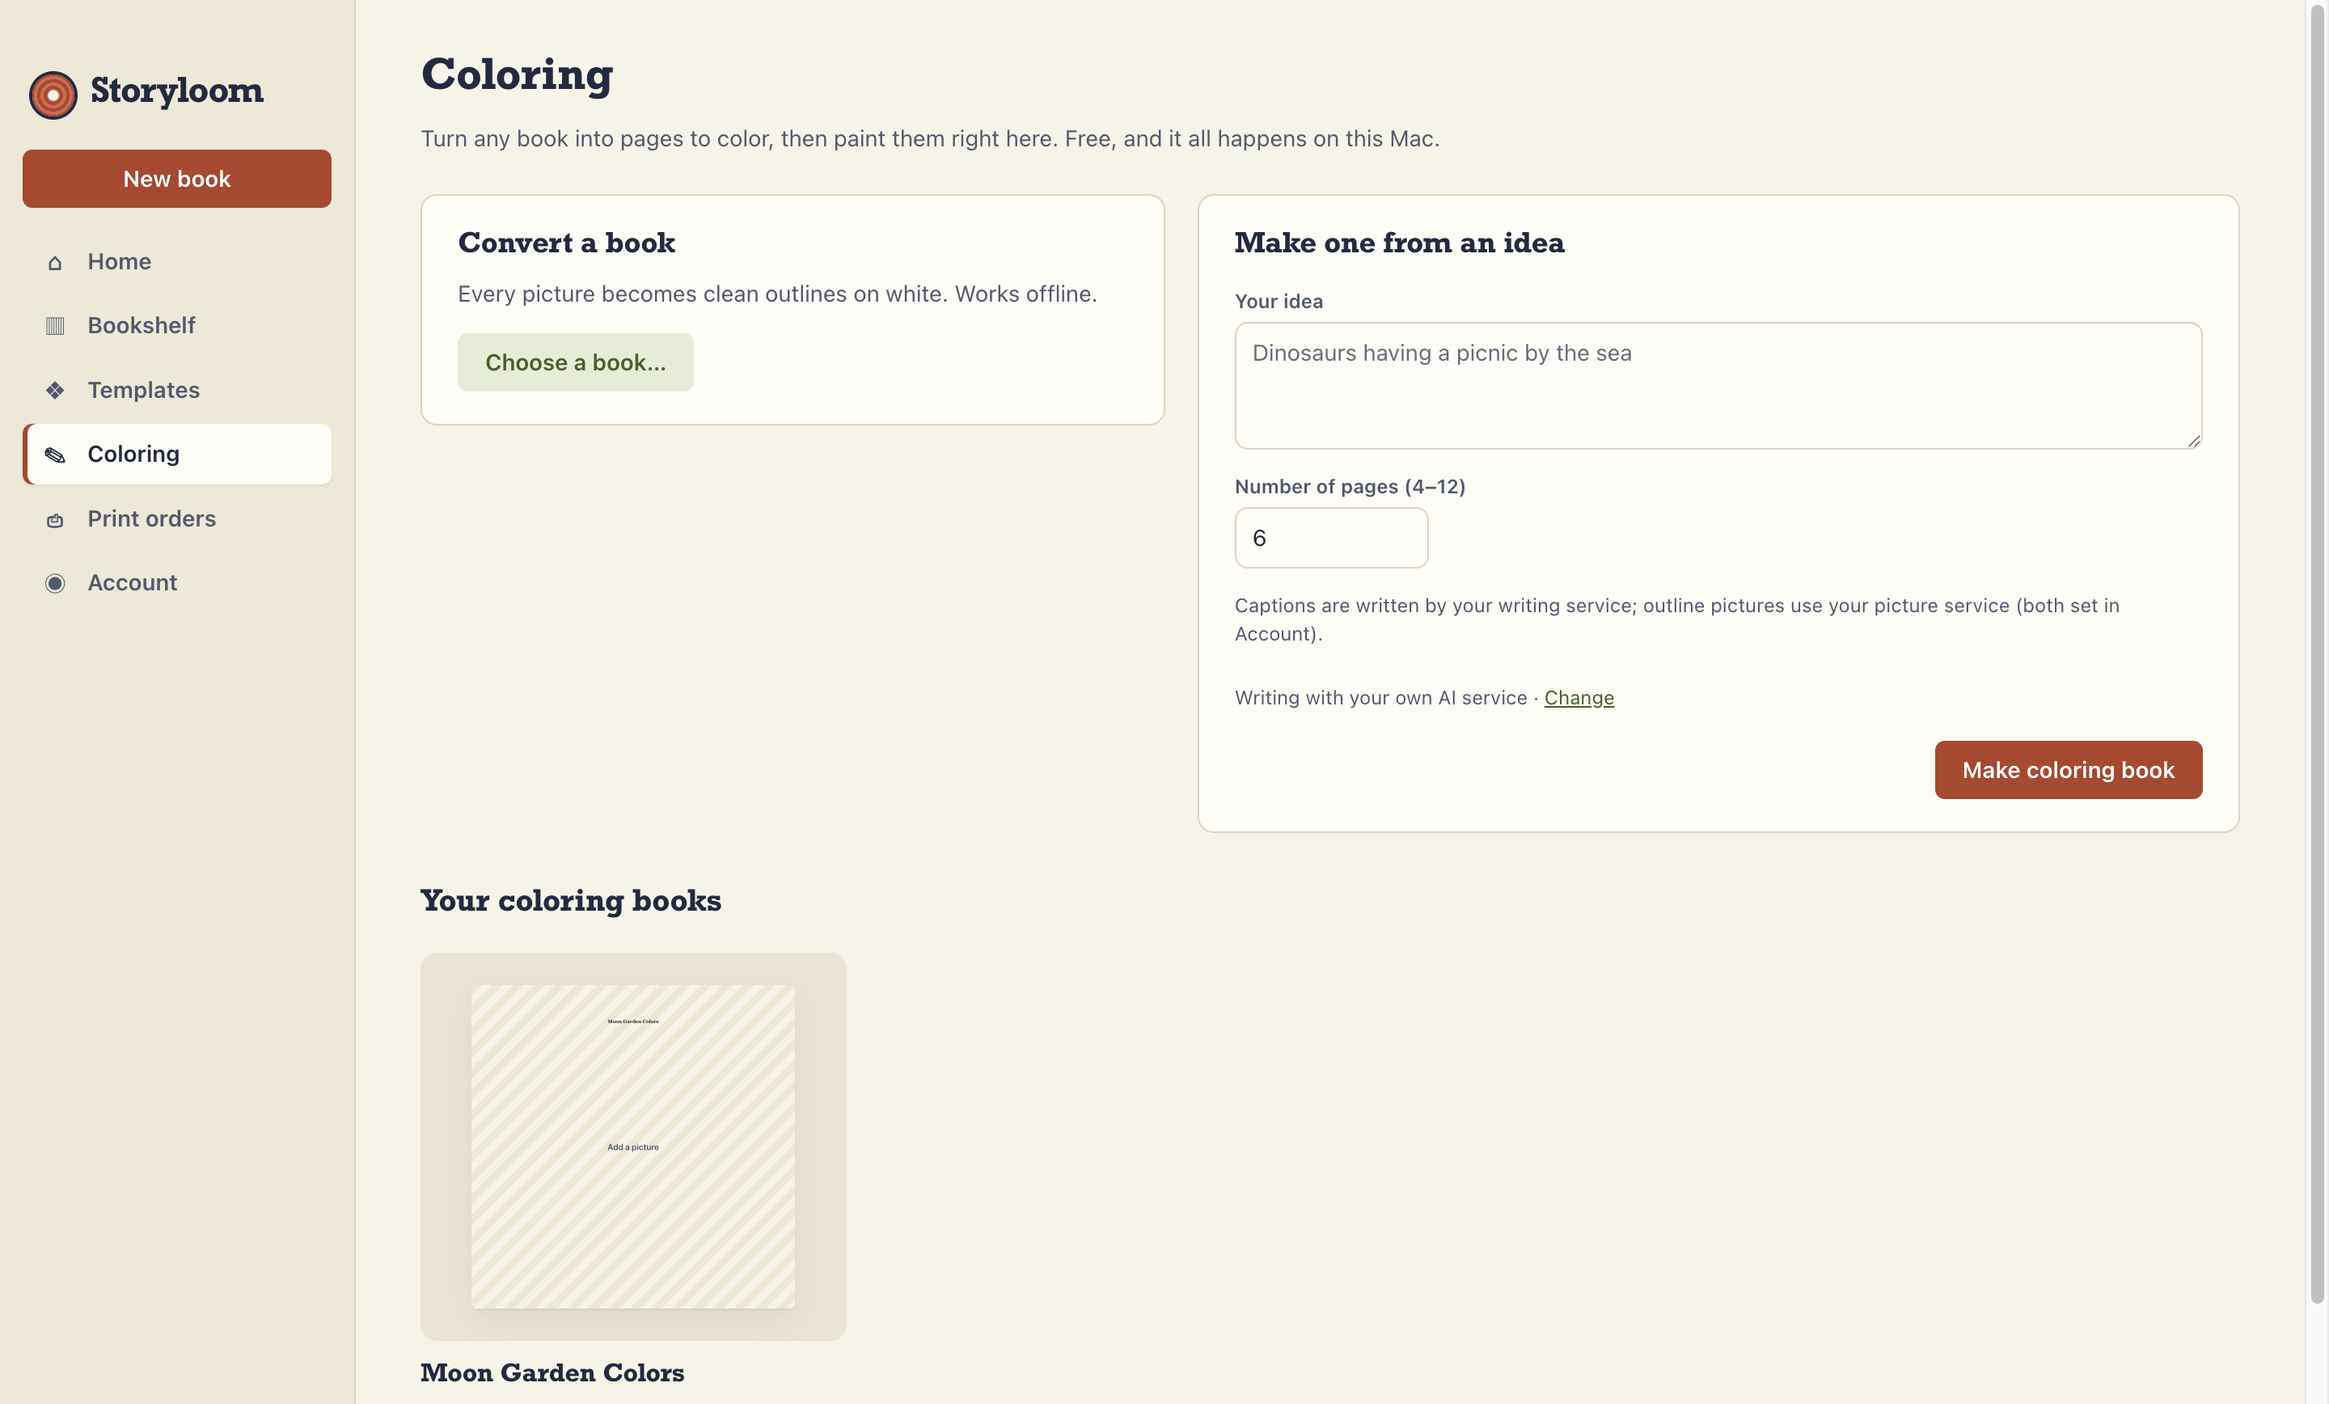
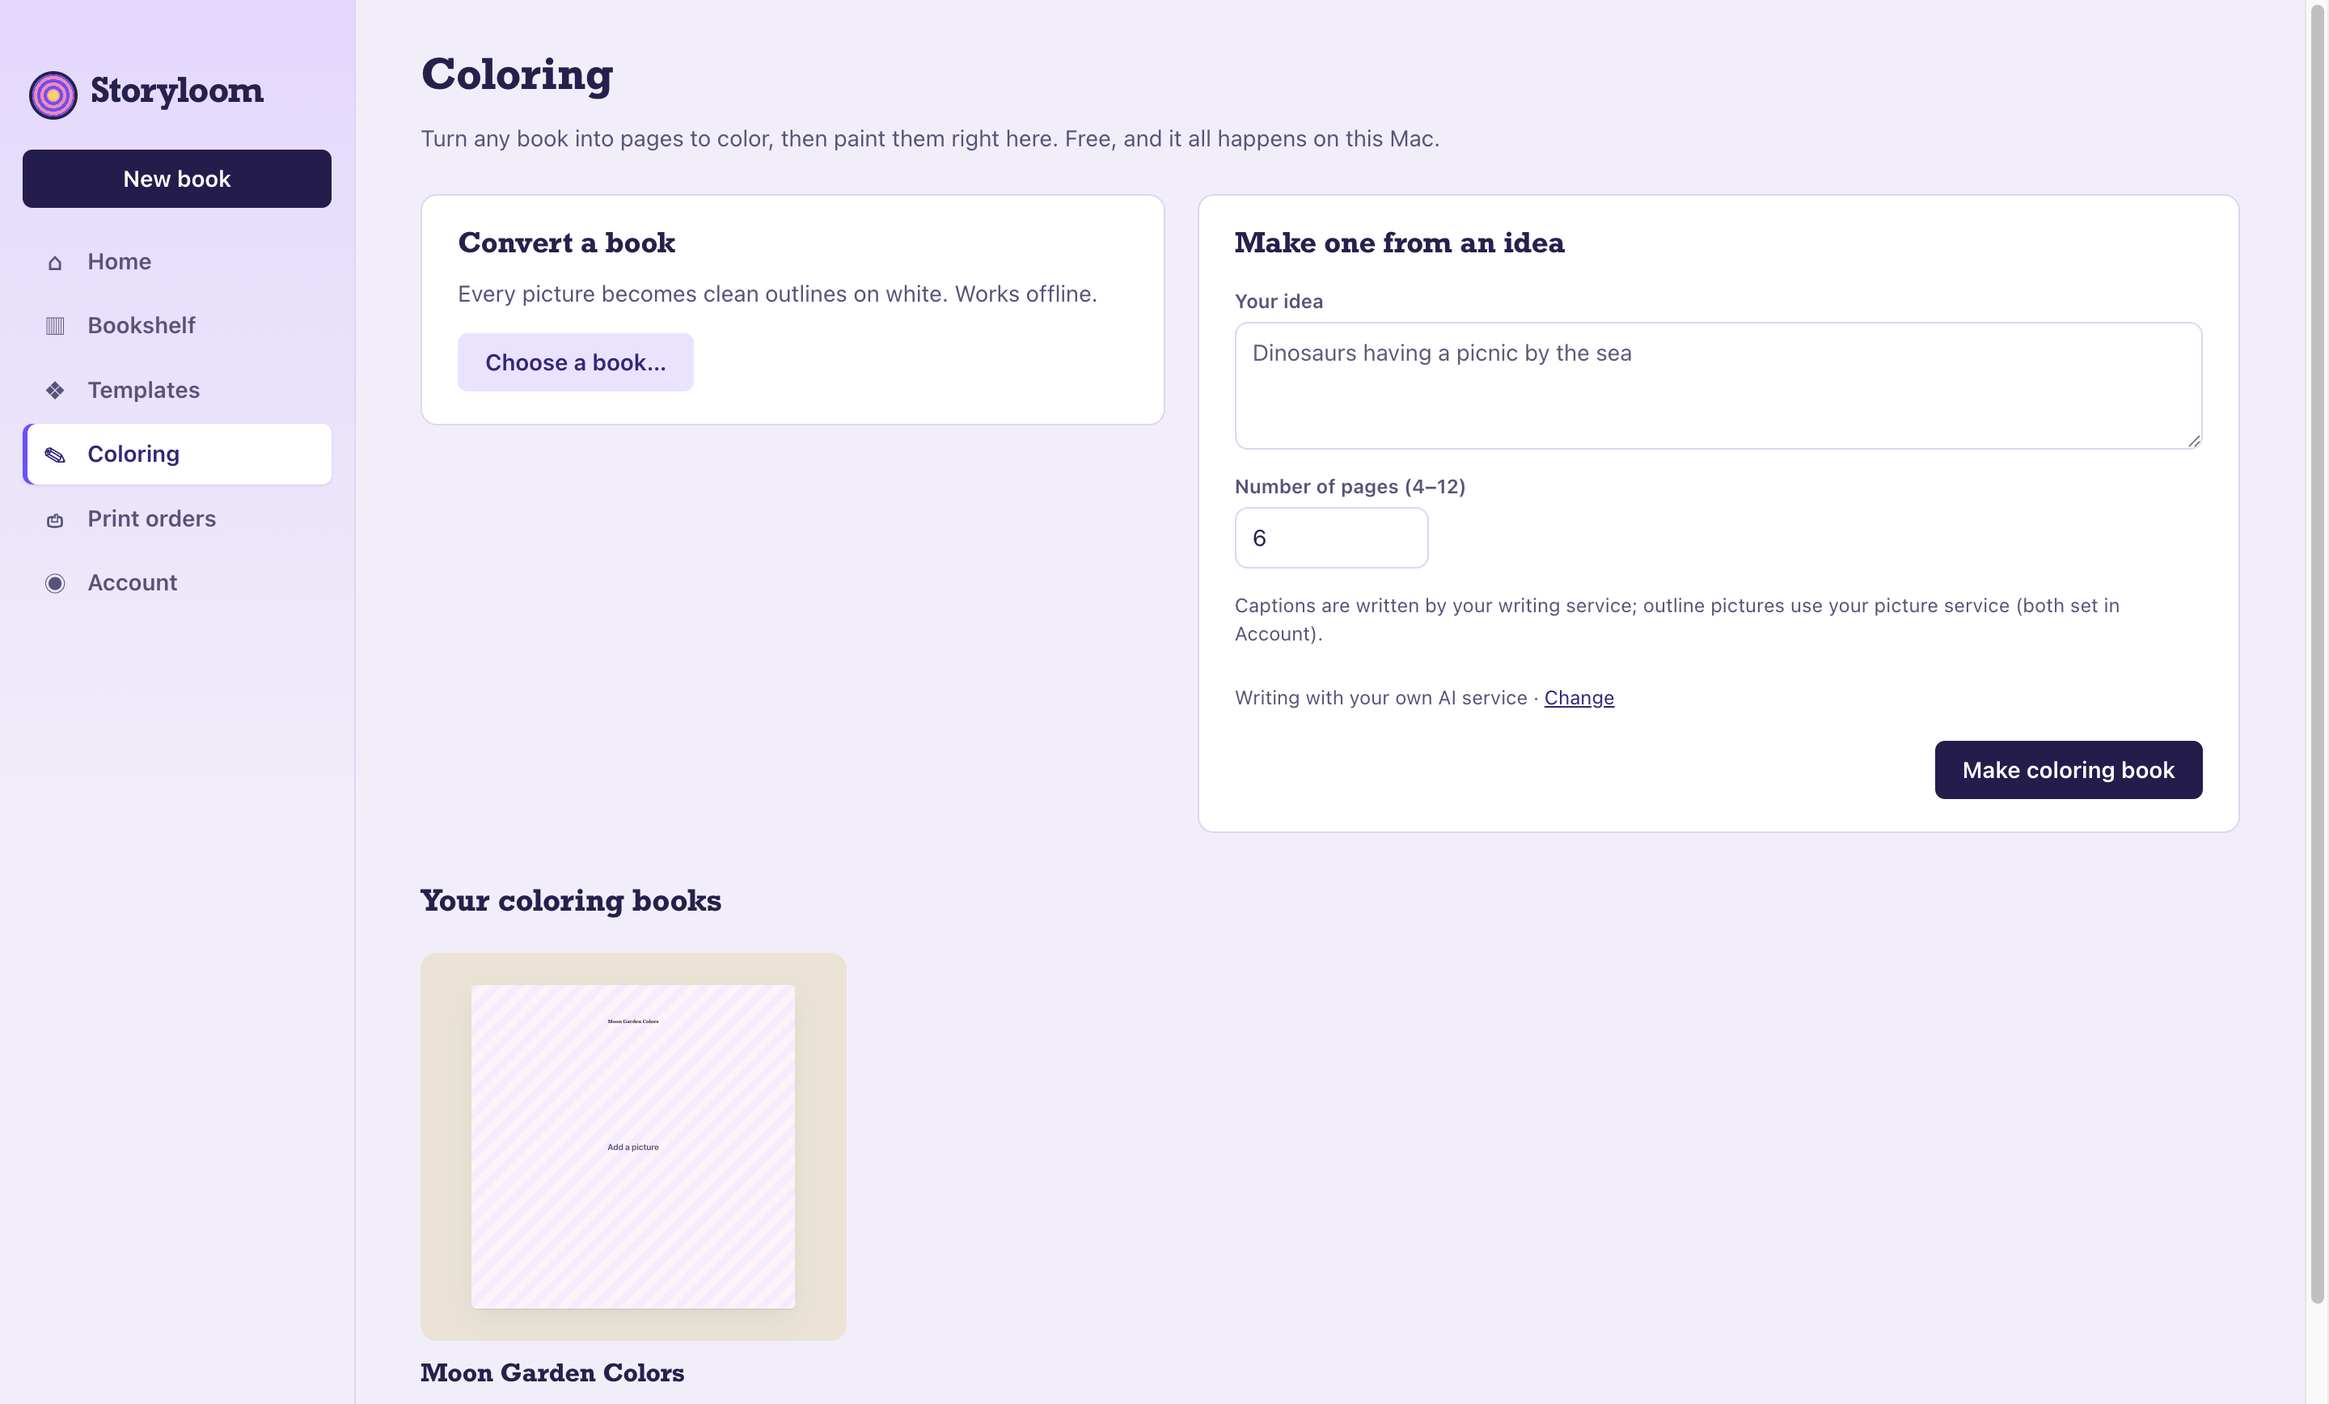
Use Kelly's lavender and purple colors in the picture-book design

diff --git a/renderer/theme.css b/renderer/theme.css
@@ -1,19 +1,22 @@
 /* Storyloom picture-book theme (see DESIGN.md).
-   Printed-book materials: uncoated paper, printer's navy ink, a brick-red action colour, a wooden shelf.
-   Loaded last, so it restyles the app on top of each screen's own layout. */
+   Kelly's lavender palette: a lilac sky, deep purple ink and buttons, pink and sunny-yellow touches,
+   and a wooden shelf. Loaded last, so it restyles the app on top of each screen's own layout. */
 
 :root {
-  --paper: #f8f4ea;
-  --panel: #fffdf8;
-  --ink: #26304a;
-  --muted: #5b647a;
-  --line: #e2d9c6;
-  --accent: #b84a33;
-  --accent-hover: #9c3c28;
+  --paper: #f4f0fa;
+  --panel: #ffffff;
+  --ink: #2c2458;
+  --muted: #655e86;
+  --line: #e4daf5;
+  --accent: #2a2158;        /* main buttons */
+  --accent-hover: #1b153f;
   --accent-ink: #ffffff;
-  --accent-soft: #f6e3dc;
-  --teal: #4f6b2a;          /* "leaf": selected and success states */
-  --teal-soft: #e9efdc;
+  --accent-soft: #efe7ff;
+  --violet: #5b4fd6;        /* links and highlights; 5.9:1 on white */
+  --pink: #ff8fb8;
+  --sun: #ffd36e;
+  --teal: #3a2f86;          /* selected states: purple text on lilac, 9:1 */
+  --teal-soft: #efe7ff;
   --wood: #b07a45;
   --wood-edge: #8a5a2e;
   --radius: 10px;
@@ -25,39 +28,42 @@
 
 body { background: var(--paper); }
 h1, h2, h3 { font-family: var(--display); font-weight: 700; letter-spacing: 0; color: var(--ink); }
-::placeholder { color: #737886; }
-:focus-visible { outline: 2px solid var(--ink); outline-offset: 2px; }
+::placeholder { color: #6b6488; }
+:focus-visible { outline: 2px solid var(--violet); outline-offset: 2px; }
 
 /* ---------- buttons ---------- */
 .btn { border-radius: var(--radius-control); transition: background-color var(--ease), border-color var(--ease), color var(--ease); }
 .btn.primary { background: var(--accent); color: var(--accent-ink); }
 .btn.primary:hover:not(:disabled) { background: var(--accent-hover); }
 .btn.secondary { background: var(--teal-soft); color: var(--teal); }
-.btn.secondary:hover:not(:disabled) { background: #dde7cb; }
-.btn.ghost { background: var(--panel); border-color: var(--line); color: var(--ink); }
-.btn.ghost:hover:not(:disabled) { background: #f1ead9; border-color: #d3c7ae; }
-.icon-btn:hover { background: #efe8d8; }
+.btn.secondary:hover:not(:disabled) { background: #e2d6ff; }
+.btn.ghost { background: var(--panel); border-color: var(--line); color: #3a2f86; }
+.btn.ghost:hover:not(:disabled) { background: #f6f0ff; border-color: #d9c8ff; }
+.icon-btn:hover { background: #f3ecff; }
 
 /* ---------- sidebar navigation ---------- */
-.app-nav { background: #f1ebdc; border-right-color: var(--line); }
+.app-nav { background: linear-gradient(180deg, #e9ddff, #f4f0fa 60%); border-right-color: var(--line); }
 .brand { font-family: var(--display); font-weight: 700; font-size: 21px; color: var(--ink); }
 /* The logo: a spool of thread (the "loom" in Storyloom). */
 .brand-mark {
   flex: none; width: 26px; height: 26px; border-radius: 50%;
   background:
-    radial-gradient(circle, var(--paper) 0 3px, transparent 3.5px),
-    repeating-radial-gradient(circle, var(--accent) 0 2px, #d8735b 2px 4px);
+    radial-gradient(circle, var(--sun) 0 3px, transparent 3.5px),
+    repeating-radial-gradient(circle, #7c5cff 0 2px, var(--pink) 2px 4px);
   box-shadow: 0 0 0 2px var(--ink);
 }
 .app-nav-item { border-radius: var(--radius-control); color: var(--muted); transition: background-color var(--ease), color var(--ease); }
-.app-nav-item:hover { background: #e8e0cc; color: var(--ink); }
-.app-nav-item.active { background: var(--panel); color: var(--ink); box-shadow: inset 3px 0 0 var(--accent), 0 1px 2px rgba(38, 48, 74, .08); font-weight: 600; }
+.app-nav-item:hover { background: rgba(255, 255, 255, .7); color: var(--ink); }
+.app-nav-item.active { background: var(--panel); color: #3a2f86; box-shadow: inset 3px 0 0 #7c5cff, 0 1px 2px rgba(70, 46, 130, .1); font-weight: 600; }
 
 /* ---------- book screens ---------- */
-.book-bar { background: var(--paper); border-bottom-color: var(--line); }
+.book-bar { background: linear-gradient(180deg, #f7f3ff, #fff); border-bottom-color: var(--line); }
 .title-input { font-family: var(--display); }
-.book-tabs { background: #ece4d2; }
-.book-tab.active { background: var(--panel); color: var(--ink); box-shadow: 0 1px 2px rgba(38, 48, 74, .1); }
+.book-tabs { background: #efe7ff; }
+.book-tab.active { background: #3a2f86; color: #fff; }
+
+/* ---------- Home: a lilac sky behind the page ---------- */
+.screen-home .home-main { background: linear-gradient(180deg, #c9b6ff 0%, #eadbff 22%, #fff0f7 55%, var(--paper) 100%); }
 
 /* ---------- Home: an open notebook page ---------- */
 .home-inner { max-width: 1040px; grid-template-columns: minmax(0, 1fr); }
@@ -74,7 +80,7 @@ h1, h2, h3 { font-family: var(--display); font-weight: 700; letter-spacing: 0; c
 /* The notebook margin rule: the one decorative line on the page. */
 .home-page::before {
   content: ""; position: absolute; top: 0; bottom: 0; left: 40px; width: 2px;
-  background: #e0a898; /* brick at low strength, as a solid colour so it isn't read as pink tint */
+  background: var(--pink);
 }
 .home-page h1 { font-size: 40px; line-height: 1.1; margin: 0 0 24px; max-width: 18ch; }
 .home-page .field-label { font-weight: 600; color: var(--ink); }
@@ -90,24 +96,24 @@ h1, h2, h3 { font-family: var(--display); font-weight: 700; letter-spacing: 0; c
 .screen-home .home-chips { margin: 0 0 24px; }
 .screen-home .home-chip {
   border-radius: var(--radius-control);
-  background: var(--paper); border: 1px solid var(--line); color: var(--ink);
+  background: #f4ecff; border: 1px solid transparent; color: #3a2f86;
   white-space: normal; text-align: left; line-height: 1.35;
   transition: background-color var(--ease), border-color var(--ease);
 }
-.screen-home .home-chip:hover { background: #f1ead9; border-color: #d3c7ae; }
-.screen-home .home-star { border-radius: var(--radius-control); background: var(--paper); }
+.screen-home .home-chip:hover { background: #ffe7f4; border-color: transparent; }
+.screen-home .home-star { border-radius: var(--radius-control); background: #f7f4ff; border-color: #e4daf5; }
 .screen-home .home-alt { border-top: 1px dashed var(--line); }
 .home-section-head h2 { font-size: 20px; }
 .home-recent-cover, .home-theme { border-radius: var(--radius-control); }
 .home-unavailable { background: var(--panel); border-radius: var(--radius); }
 
 /* ---------- Bookshelf: books standing on a wooden shelf ---------- */
-.bs-shelves { background: #f1ebdc; border-right-color: var(--line); }
+.bs-shelves { background: #faf8ff; border-right-color: var(--line); }
 .bs-side-title { font-family: var(--display); letter-spacing: 0; text-transform: none; font-size: 15px; color: var(--ink); }
 .bs-shelf { border-radius: var(--radius-control); }
-.bs-shelf:hover { background: #e8e0cc; }
-.bs-shelf.active { background: var(--panel); box-shadow: inset 3px 0 0 var(--accent); }
-.bs-shelf.active .bs-shelf-btn, .bs-shelf.active .bs-shelf-count { color: var(--ink); }
+.bs-shelf:hover { background: #f3ecff; }
+.bs-shelf.active { background: #efe7ff; box-shadow: inset 3px 0 0 #7c5cff; }
+.bs-shelf.active .bs-shelf-btn, .bs-shelf.active .bs-shelf-count { color: #3a2f86; }
 .bs-title-row h1 { font-size: 30px; }
 .bs-cover { position: relative; overflow: visible; padding-bottom: 14px; background: transparent; }
 .bs-cover .page-frame { border-radius: 2px 3px 3px 2px; box-shadow: inset 6px 0 0 rgba(0, 0, 0, .12), 0 8px 14px -6px rgba(38, 48, 74, .35); }
@@ -120,20 +126,20 @@ h1, h2, h3 { font-family: var(--display); font-weight: 700; letter-spacing: 0; c
 }
 .bs-card:active .bs-cover .page-frame { transform: translateY(-2px); }
 .bs-card-title { font-family: var(--display); font-weight: 700; }
-.bs-more:hover, .bs-more:focus-visible { background: #efe8d8; }
+.bs-more:hover, .bs-more:focus-visible { background: #f3ecff; }
 
 /* ---------- Templates ---------- */
 .templates-head h1 { font-size: 32px; }
 .templates-chip { border-radius: var(--radius-control); }
-.templates-chip.active { background: var(--ink); color: #fff; }
+.templates-chip.active { background: #3a2f86; color: #fff; }
 .templates-card { border-radius: var(--radius); transition: border-color var(--ease); }
-.templates-card:hover { border-color: #d3c7ae; }
+.templates-card:hover { border-color: #d9c8ff; }
 .templates-cover, .templates-stage { border-radius: var(--radius-control); }
 
 /* ---------- shared surfaces ---------- */
 .export-unavailable, .coloring-start, .export-details { border-radius: var(--radius); }
 .page-image.placeholder {
-  background: repeating-linear-gradient(135deg, #f1ead9 0 14pt, #f8f4ea 14pt 28pt);
+  background: repeating-linear-gradient(135deg, #f6efff 0 14pt, #fff4f9 14pt 28pt);
   color: var(--muted);
 }
 

diff --git a/renderer/preview-boot.js b/renderer/preview-boot.js
@@ -76,12 +76,12 @@
 
   const now = Date.now();
   const books = [
-    story('Otto and the Low Tide', '#2e6f8e', '#fff8e8', [shape('ellipse', 430, 40, 120, 120, '#ffd27a'), shape('rounded', 40, 480, 520, 70, '#9fd3e0')], 'An otter has one evening to find his way back before the sea returns.', now - 1000),
-    story('The Button Jar Kingdom', '#c8553d', '#fff8e8', [shape('ellipse', 60, 50, 90, 90, '#f2c14e'), shape('ellipse', 440, 440, 110, 110, '#88b04b')], 'Every button in Grandma’s jar was once a crown.', now - 2000),
-    story('Mabel Plants a Moon', '#3d4a6b', '#f6eedc', [shape('ellipse', 400, 40, 130, 130, '#f6eedc'), shape('star', 60, 470, 80, 80, '#f2c14e')], 'A girl plants a silver seed and waits all winter.', now - 3000),
-    story('Pip’s Paper Boat', '#f2c14e', '#3d2a14', [shape('triangle', 60, 420, 140, 120, '#c8553d'), shape('cloud', 380, 40, 170, 100, '#fff8e8')], 'A boat folded from a spelling test sails the whole gutter river.', now - 4000),
-    story('Ten Snails to Supper', '#88b04b', '#24331a', [shape('ellipse', 40, 40, 100, 100, '#f6eedc'), shape('ellipse', 450, 450, 90, 90, '#c8553d')], 'A counting book where nobody is in a hurry.', now - 5000),
-    story('The Quiet Lighthouse', '#26304a', '#f6eedc', [shape('star', 60, 50, 80, 80, '#f2c14e'), shape('star', 460, 420, 90, 90, '#f6eedc')], 'The lighthouse keeper’s cat keeps the light on alone.', now - 6000),
+    story('Otto and the Low Tide', '#5ec8e6', '#1c3358', [shape('ellipse', 430, 40, 120, 120, '#ffe27a'), shape('rounded', 40, 480, 520, 70, '#ffffff')], 'An otter has one evening to find his way back before the sea returns.', now - 1000),
+    story('The Button Jar Kingdom', '#ff8a5b', '#4a1d0e', [shape('ellipse', 60, 50, 90, 90, '#ffe27a'), shape('heart', 440, 440, 110, 100, '#ff8fb8')], 'Every button in Grandma’s jar was once a crown.', now - 2000),
+    story('Mabel Plants a Moon', '#3a2f86', '#ffffff', [shape('ellipse', 400, 40, 130, 130, '#ffe27a'), shape('star', 60, 470, 80, 80, '#ff8fb8')], 'A girl plants a silver seed and waits all winter.', now - 3000),
+    story('Pip’s Paper Boat', '#ffd36e', '#5a3114', [shape('triangle', 60, 420, 140, 120, '#ff8a5b'), shape('cloud', 380, 40, 170, 100, '#ffffff')], 'A boat folded from a spelling test sails the whole gutter river.', now - 4000),
+    story('Ten Snails to Supper', '#ff9ec8', '#5a2450', [shape('ellipse', 40, 40, 100, 100, '#ffffff'), shape('ellipse', 450, 450, 90, 90, '#7c5cff')], 'A counting book where nobody is in a hurry.', now - 5000),
+    story('The Quiet Lighthouse', '#6a4dff', '#ffffff', [shape('star', 60, 50, 80, 80, '#ffe27a'), shape('star', 460, 420, 90, 90, '#ffffff')], 'The lighthouse keeper’s cat keeps the light on alone.', now - 6000),
   ];
 
   let shelves = [{ id: uid(), name: 'Bedtime', bookIds: books.slice(0, 2).map((book) => book.id), order: 0 }];

diff --git a/DESIGN.md b/DESIGN.md
@@ -9,15 +9,14 @@
 - Body and controls: the system font, for clear, native-feeling forms.
 - Scale: 13 / 14 / 16 / 20 / 28 / 40 px.
 
-**Colour** (OKLCH with hex equivalents):
-- paper `oklch(97% 0.012 85)` #f8f4ea: the background, like uncoated book paper.
-- ink `oklch(30% 0.04 255)` #26304a: headings and text, a deep printer's navy.
-- primary #b84a33: brick red for the main action. White text on it is 5.2:1; as text on paper it is 4.7:1.
-- leaf `oklch(65% 0.12 130)` #6b8f3a: selected states and success. Darker #4f6b2a for text (5.6:1 on paper).
-- mustard `oklch(82% 0.13 85)` #f2c14e: small highlights only, never under text smaller than 18px.
+**Colour** (Kelly's lavender palette, kept by request):
+- paper #f4f0fa and panels #ffffff; a lilac sky gradient (#c9b6ff to #eadbff to #fff0f7) behind the Home page and the sidebar.
+- ink #2c2458 for headings and text; muted #655e86 for secondary text (darkened from #6e6594 so it stays readable on lilac).
+- main buttons #2a2158 (deep purple) with white text; selected states #3a2f86 on lilac #efe7ff.
+- violet #5b4fd6 for focus rings and highlights; #7c5cff, pink #ff8fb8 and sun #ffd36e only as decoration (the logo, the notebook margin, selection bars).
 - shelf wood #b07a45 with a darker edge #8a5a2e.
 
-Contrast pairs (measured): ink on paper 11.9:1, muted #5b647a on paper 5.4:1, white on brick 5.2:1, leaf text #4f6b2a on paper 5.5:1, ink on mustard 7.8:1.
+Contrast pairs (measured): ink on paper 12.5:1, muted on paper 5.3:1 and on lilac 5.5:1, white on the main button 14.4:1, purple on lilac 9.1:1, placeholder #6b6488 on white 5.5:1.
 
 **Space and density.** 4px base; 8 / 12 / 16 / 24 / 32 / 48. Comfortable, not dense.
 
@@ -29,4 +28,4 @@ Contrast pairs (measured): ink on paper 11.9:1, muted #5b647a on paper 5.4:1, wh
 
 **Alignment.** Left sidebar navigation (Storyloom's own), content on one 1040px rail, left-aligned headings.
 
-**Rejected defaults.** Lavender sky gradient, pill navigation across the top, centered hero headline, "Addon" badges on free features, emoji-style decorations, violet accents, and any wording from other picture-book apps.
+**Rejected defaults.** Pill navigation across the top, a centered hero headline, "Addon" badges on free features, emoji-style decorations, and any wording from other picture-book apps.

diff --git a/CHANGELOG.md b/CHANGELOG.md
@@ -14,7 +14,7 @@ The format follows [Keep a Changelog](https://keepachangelog.com/en/1.1.0/), and
 
 ### Changed
 
-- A new printed-picture-book look: paper-coloured pages, a slab-serif headline type, a brick-red main button, and books standing on a wooden shelf.
+- A new picture-book look: a soft lavender sky, deep purple buttons, a slab-serif headline type, and books standing on a wooden shelf.
 - The Home page is now an open notebook page with "Start writing", and long story ideas wrap instead of being cut off.
 - The bookshelf title uses your author name, such as "Kelly's bookshelf".
 
